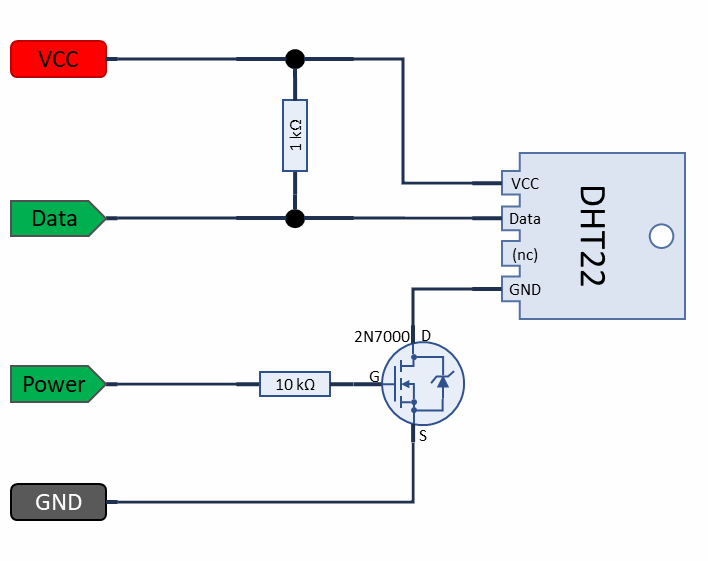
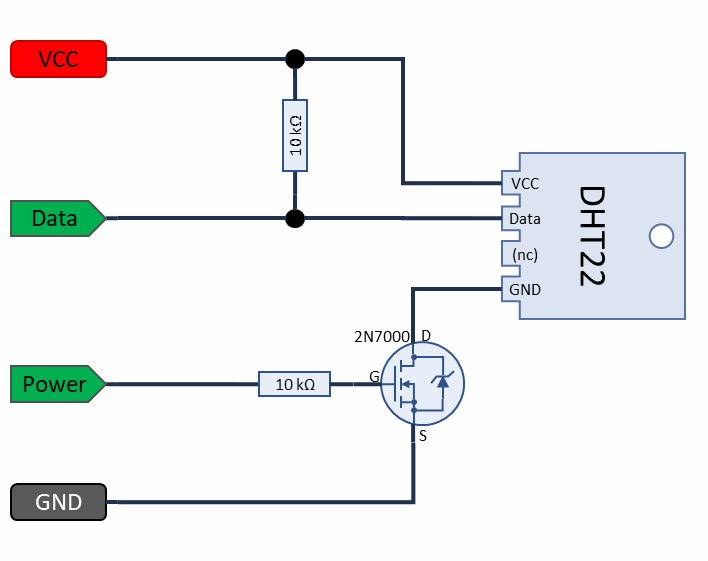
ic2 doku

diff --git a/boards/pins.md b/boards/pins.md
@@ -11,6 +11,7 @@ However,
 
 The following overview of the ESP8266 chip and boards was helpful for me to collect all the restrictions.
 
+
 ## Table of pins
 
 The following table is using the **GPIO** pin numbers. They are equivalent to the IOxx numbers in the [ESP8266 Technical Reference] document.
@@ -19,25 +20,26 @@ The Pin notation **Dxx** was introduced by the NodeMCU and are written on some b
 
 Not mentioned here are the pin numbers on the real chip. If you need to used them directly, have a look into the [ESP8266 Technical Reference].
 
-| GPIO   | Pin | Special function           | Limitations                                |
-| ------ | --- | -------------------------- | ------------------------------------------ |
-| GPIO0  | D3  | Boot, **flash** mode       | Keep HIGH while booting, output-active-LOW |
-| GPIO1  | D10 | Serial0-TX                 | Limited usage for IO                       |
-| GPIO2  | D4  | PWM, Serial1-TX, Boot, LED | Keep HIGH while booting, output-active-LOW |
-| GPIO3  | D9  | Serial0-RX                 | Limited usage for IO                       |
-| GPIO4  | D2  | I2C                        |                                            |
-| GPIO5  | D1  | I2C                        |                                            |
-| GPIO6  | --  | SDIO                       | cannot be used                             |
-| GPIO7  | --  | SDIO                       | cannot be used                             |
-| GPIO8  | --  | Serial1-RX, SDIO           | cannot be used                             |
-| GPIO9  | D11 | SDIO                       | cannot be used                             |
-| GPIO10 | D12 | SDIO                       | cannot be used                             |
-| GPIO11 | --  | SDIO                       | cannot be used                             |
-| GPIO12 | D6  | PWM                        |                                            |
-| GPIO13 | D7  |                            |                                            |
-| GPIO14 | D5  | PWM                        |                                            |
-| GPIO15 | D8  | PWM, Boot                  | Keep LOW while booting, output-active-HIGH |
-| GPIO16 | D0  | deep sleep reset, LED      | cannot be used when using deep sleep mode  |
+| GPIO   | Pin | Special function                        | Limitations                                                                                    |
+| ------ | --- | --------------------------------------- | ---------------------------------------------------------------------------------------------- |
+| GPIO0  | D3  | Boot mode select, **flash** mode switch | Keep HIGH for operating and LOW for flashing while booting, output is possible with active=LOW |
+| GPIO1  | D10 | Serial0-TX                              | Limited usage for IO                                                                           |
+| GPIO2  | D4  | PWM, Serial1-TX, Boot, LED              | Keep HIGH while booting, sends debug info at boot time, output-active-LOW                      |
+| GPIO3  | D9  | Serial0-RX                              | Limited usage for IO                                                                           |
+| GPIO4  | D2  | I2C - SDA                               |                                                                                                |
+| GPIO5  | D1  | I2C - SCL                               |                                                                                                |
+| GPIO6  | --  | SDIO                                    | cannot be used                                                                                 |
+| GPIO7  | --  | SDIO                                    | cannot be used                                                                                 |
+| GPIO8  | --  | Serial1-RX, SDIO                        | cannot be used                                                                                 |
+| GPIO9  | D11 | SDIO                                    | cannot be used                                                                                 |
+| GPIO10 | D12 | SDIO                                    | cannot be used                                                                                 |
+| GPIO11 | --  | SDIO                                    | cannot be used                                                                                 |
+| GPIO12 | D6  | PWM, MISO                               |                                                                                                |
+| GPIO13 | D7  | MOSI                                    |                                                                                                |
+| GPIO14 | D5  | PWM, SCK                                |                                                                                                |
+| GPIO15 | D8  | PWM, SS, Boot                           | Keep LOW while booting, output-active-HIGH                                                     |
+| GPIO16 | D0  | deep sleep reset, LED                   | cannot be used when using deep sleep mode, must be connected to RST for deep-sleep mode.       |
+
 
 ### Onboard LEDs
 
@@ -93,7 +95,9 @@ There are boards that already have a display and use other lines. Be sure to rea
 The configuration of the I2C bus is required for many elements and is handled centrally by setting the 
 `I2C-SDA` and `I2C-SCL` properties in the device element.
 
-See also [Device Element](../elements/device.md).
+See also
+* [Device Element](../elements/device.md).
+* [Using the I2C bus](/i2c.md)
 
 
 ## Summary

diff --git a/i2c.md b/i2c.md
@@ -1,0 +1,80 @@
+# Using the I2C bus
+
+The I2C bus is used by many components, sensors, displays and other chips to communicate commands and data.
+
+The data transfer is not as fast as the SPI bus but it is easy to implement
+because fewer lines are required and the chip-select line that enables
+an individual bus participant is replaced by a participant address.
+
+The ESP8266 SoC doesn't have many GPIO lines so using a bus enables more components in the same device. 
+
+## Wiring
+
+I2C requires 4 wires for power and data communication. 
+
+At least the order of the lines are used by some of the standards in the Arduino space is equal. 
+
+### Wiring of I2C Connectors by Adafruit
+
+Adafruit uses JST PH 4-Pin (2mm) connectors on some boards
+The wires offered are color-coded:
+
+- Black for GND
+- Red for V+
+- White for SDA
+- Green for SCL
+
+
+### Wiring of I2C Qwiic Connectors by Sparkfun
+
+Sparkfun uses a JST SH 4-pin (1mm) connector on many boards.
+
+They use a different connector and color scheme but the same order of signals.
+
+- Black = GND
+- Red = 3.3V
+- Blue = SDA
+- Yellow = SCL
+
+
+### Additional signals
+
+Some chips and boards that use the I2C bus for communication also have some more signals to be controlled
+like signals to reset the chips or power on/off.
+These are not connected using the 4 core signals and need to be connected ba an additional wiring.
+
+The [OLED Display SH1106](/displays\sh1106.md) is an example that offers a reset pin to enable the display before using the I2C bus.
+
+
+## Wire Library and supporting utilities
+
+The WireUtil Class in the HomeDing library helps implementing I2C bus data transfers using a data buffer. This class implements some of the common procedures that help implementing I2C based communication to sensors and other chips.
+
+It also offers a possibility of dumping the data into the Serial Debug Output for analysis.
+
+Often I2C adaptions are using a (logical) register based access pattern.
+Here a data centric access is implemented that separates reading / writing data to a buffer from interpretation of the data in the buffer.
+That fits well to those processor implementations that support I2C data exchange through dma implementations.
+
+See: [Using the I2C bus](/i2c.md)
+
+
+## I2C addresses and chips using them
+
+
+https://i2cdevices.org/addresses
+
+0x27 : LCD Display, PCF8574 Port extender
+
+0x68 : MPU9250
+0x69 : (MPU9250) 
+0x76 : BMP280
+0x77 : (BMP280) BME680
+
+(alternate address in brackets)
+
+## See also
+
+* <https://www.adafruit.com/product/3950>
+* <https://www.sparkfun.com/qwiic#faqs>
+* <https://www.smart-prototyping.com/Qwiic.html>

diff --git a/elements/ntptime.md b/elements/ntptime.md
@@ -21,7 +21,9 @@ The Network Time Protocol (NTP) is supported by many operating systems and is th
 
 You can find many NTP servers on the internet. The web site <https://www.pool.ntp.org/en/> has a repository of available servers. Inside companies usually a local server is available.
 
-Because it takes some time to get a package from the server and of course sometimes the server doesn't answer at all or network packages are lost you cannot rely on getting a correct time immediately after starting the board or coming back from a deep sleep mode. If you have a device with these requirements a chip based real-time like the  [DSTime Element](elements/dstime) may be a better option.
+Because it takes some time to get a package from the server and of course sometimes the server doesn't answer at all or network packages
+are lost you cannot rely on getting a correct time immediately after starting the board or coming back from a deep sleep mode.
+If you have a device with these requirements a chip based real-time like the  [DSTime Element](elements/dstime.md) may be a better option.
 
 
 ## Element Configuration
@@ -34,7 +36,9 @@ The following properties are available for configuration of the element:
 
 The Timezone contains the name and offset and can include summer time adjustments. It is using the format used for the POSIX TZ environment variable. 
 
-See https://sites.google.com/a/usapiens.com/opnode/time-zones for examples.
+See <https://developer.ibm.com/technologies/systems/articles/au-aix-posix/> that explains the format for this configuration.
+
+See <https://sites.google.com/a/usapiens.com/opnode/time-zones> for examples.
 
 
 ### Example for Configuration
@@ -72,5 +76,5 @@ The following properties are available with the current values at runtime
 
 ## See also
 
-* [Time Elements](timeelements)
+* [Time Elements](timeelements.md)
 

diff --git a/elements/dht.md b/elements/dht.md
@@ -1,4 +1,4 @@
-P# The DHT Element
+# The DHT Element
 
 ::: excerpt dht
 The DHTElement allows retrieving temperature and humidity values from the DHT family sensors and creates actions when new values are available.
@@ -47,11 +47,19 @@ The sample configuration coming with the DHT22 recipes is configured to use a DH
 
 ![DHT Wiring](/elements/dhtwires.png)
 
-The configuration can be changed easily by modifying the element properties in the config.json file.
+The configuration of the used pin can be changed easily by modifying the element properties in the config.json file.
 
-There is a 10k resistor required between pin 1 and 2 to pull the signal up. This can be done by software when the ESP8266 internal pullup feature on input pin configuration is used.
+### About the pull-up resistor
 
-However the data line is used in both directions and a physical resistor is not too expensive to be added.
+There is a 10k resistor required between pin 1 and 2 to pull the signal up. Both sides, the sensor and teh processor only hav to pull the signal to LOW
+when the protocol requires it; the resistors sets the bus level to HIGH in the case none of participants pulls the level to LOW.
+
+Adding a resistor can be done by software using the ESP8266 internal pullup feature on an input pin by using the pin configuration. But because we switch from input to output frequently is is good to have a constant solution using a external resistor.
+
+Some sensors are known to have a pullup already inside, but it doesn't hurt to add another one!
+In the end a physical resistor is not too expensive to be added, it might work without.
+
+
 
 The datasheet also suggests using a 100nf capacitor between pin 1 (VCC) and pin 4 (GND) to make power more stable that is also appropriate when a long cable is used.
 

diff --git a/boards/nodemcu.md b/boards/nodemcu.md
@@ -12,7 +12,7 @@ These boards offer an easy start into the ESP8266 development. The have all you 
 
 NodeMCU is an open-source firmware for ESP8266 boards that enables scripting a IOT device using the Lua script language.
 
-![nodencu boards](/boards/nodemcu-compare-led.jpg)
+![nodemcu boards](/boards/nodemcu-compare-led.jpg)
 
 There are many derivate versions on the market but usually they follow the published design:
 
@@ -114,14 +114,6 @@ The following env.json file can be used on these boards:
     "0": {
       "manufacturer": "Matthias Hertel"
     }
-  },
-
-  "DisplaySSD1306": {
-    "0": {
-      "address": "60",
-      "resetpin" : "D0",
-      "height": 32
-    }
   }
 }
 ```
@@ -130,8 +122,10 @@ The following env.json file can be used on these boards:
 
 - [Boards overview](/boards.md)
 - [NodeMCU Documentation](https://nodemcu.readthedocs.io/en/master/)
+- [Using the I2C bus](/i2c.md)
 - <https://frightanic.com/iot/comparison-of-esp8266-nodemcu-development-boards/>
 - <https://www.nodemcu.com/index_en.html>
 - <https://github.com/nodemcu/nodemcu-devkit-v1.0/blob/master/README.md>
 - ESP8266 board adoption for Arduino: <https://arduino-esp8266.readthedocs.io/en/latest/index.html>
+
 

diff --git a/displays.md b/displays.md
@@ -51,7 +51,7 @@ To keep the initialization in the required order it is recommended to configure 
 
 ## Startup and system information
 
-On startup, when a display is configured some system information is dispayed before the elements are started.
+On startup, when a display is configured some system information is displayed before the elements are started.
 The same information is also written to the Serial interface and can be observed using the Serial Monitor.
 
 1. "HomeDing"
@@ -61,4 +61,7 @@ The same information is also written to the Serial interface and can be observed
 2. Devicename and IP address
 
 3. cleared
-   
+
+## See also
+
+* [Using the I2C bus](/i2c.md)

diff --git a/elements/button.md b/elements/button.md
@@ -75,7 +75,7 @@ that provides the input value to the Button Element.
   "button": {
     "up": {
       "onClick": "device/main?log=click.",
-      "onDoubleClick": " device/main?log=dclick.",
+      "onDoubleClick": " device/main?log=doubleclick.",
       "onPress": " device/main?log=press."
     }
   }
@@ -103,5 +103,5 @@ The `value` property corresponds to the current output of the element.
 
 ## See also
 
-* [Light timer recipe](???)
-* [Remotebutton recipe](???)
+* [Light timer recipe](/recipes/lighttimer.md)
+* [Remote Button recipe](/recipes/remotebutton.md)

diff --git a/elements/bmp280.md b/elements/bmp280.md
@@ -118,6 +118,7 @@ The actions emitted by the BMP280 Element has read some new data (with changed v
 ## See also 
 
 * [BME680 Sensor](/elements/bme680.md)
+* [Using the I2C bus](/i2c.md)
 * **https://www.bosch-sensortec.com/products/environmental-sensors/pressure-sensors/pressure-sensors-bmp280-1.html** Product description
 * **https://www.bosch-sensortec.com/media/boschsensortec/downloads/datasheets/bst-bmp280-ds001.pdf** Handbook and programming hints.
 

diff --git a/boards/wifikit8.md b/boards/wifikit8.md
@@ -146,6 +146,7 @@ The onboard button labeled "PRG" pulls D3 down and can be used with a digital in
 
 ## See also
 
+* [Using the I2C bus](/i2c.md)
 * Product page at heltec.cn: <http://www.heltec.cn/project/wifi-kit-8/?lang=en>
 * Diagram <http://www.heltec.cn/download/WIFI_Kit_8_Diagram(new).pdf> Be aware that there is another diagram picture there that is wrong for my board.
 * <http://www.heltec.cn/download/WIFI_Kit_Series&Instructions.pdf>

diff --git a/classes.md b/classes.md
@@ -66,4 +66,6 @@ Often I2C adaptions are using a (logical) register based access pattern.
 Here a data centric access is implemented that separates reading / writing data to a buffer from interpretation of the data in the buffer.
 That fits well to those processor implementations that support I2C data exchange through dma implementations.
 
+See: [Using the I2C bus](/i2c.md)
+
 

diff --git a/elements/bme680.md b/elements/bme680.md
@@ -133,6 +133,7 @@ However there is a table driven and a formula driven approach for some mapping o
 
 ## See also
 
+* [Using the I2C bus](/i2c.md)
 * https://ae-bst.resource.bosch.com/media/_tech/media/datasheets/BST-BME680-DS001.pdf
   The official DataSheet
 * https://www.bosch-sensortec.com/bst/products/all_products/bme680 Product description

diff --git a/elements/device.md b/elements/device.md
@@ -58,7 +58,7 @@ Because there is only 1 bus available in the Arduino boards the configuration is
 
 The device Element is only defining what pins are used for the I2C bus but does no further initialization.
 
-More hints on the I2C bus implementation see [I2C](/_i2c.md)
+More hints on the I2C bus implementation see [I2C](/i2c.md)
 
 
 ### Web UI
